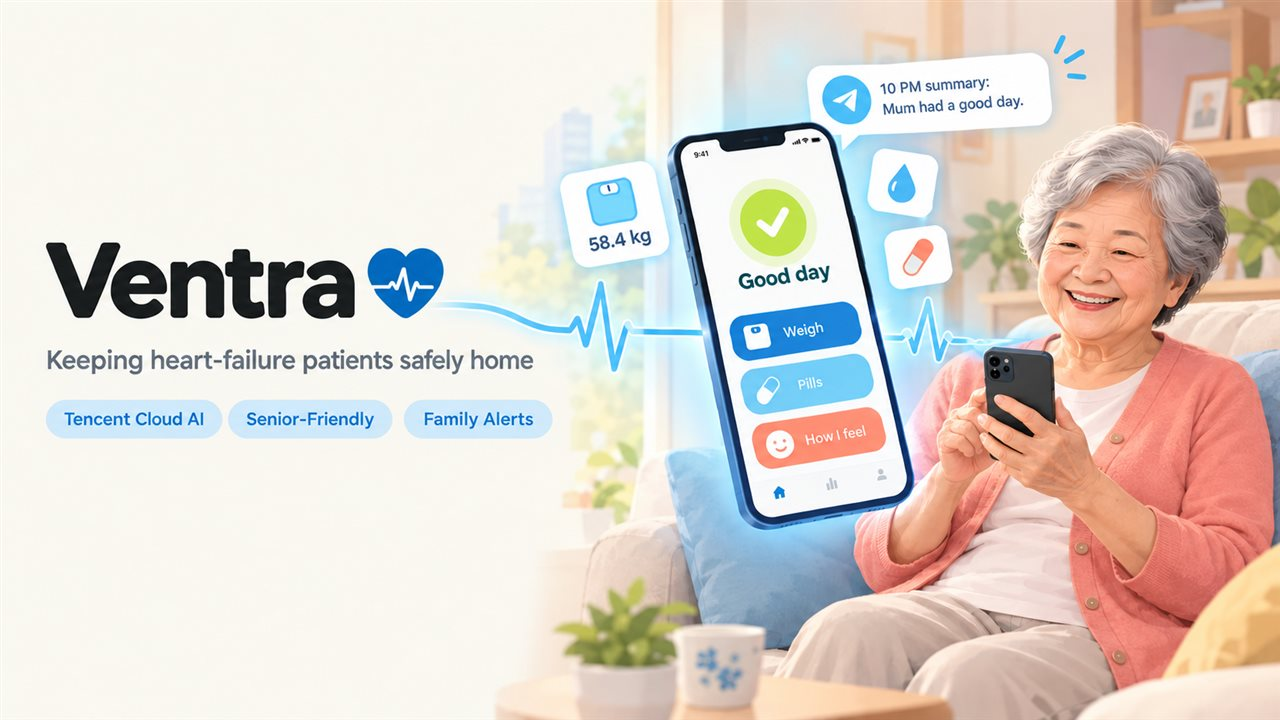
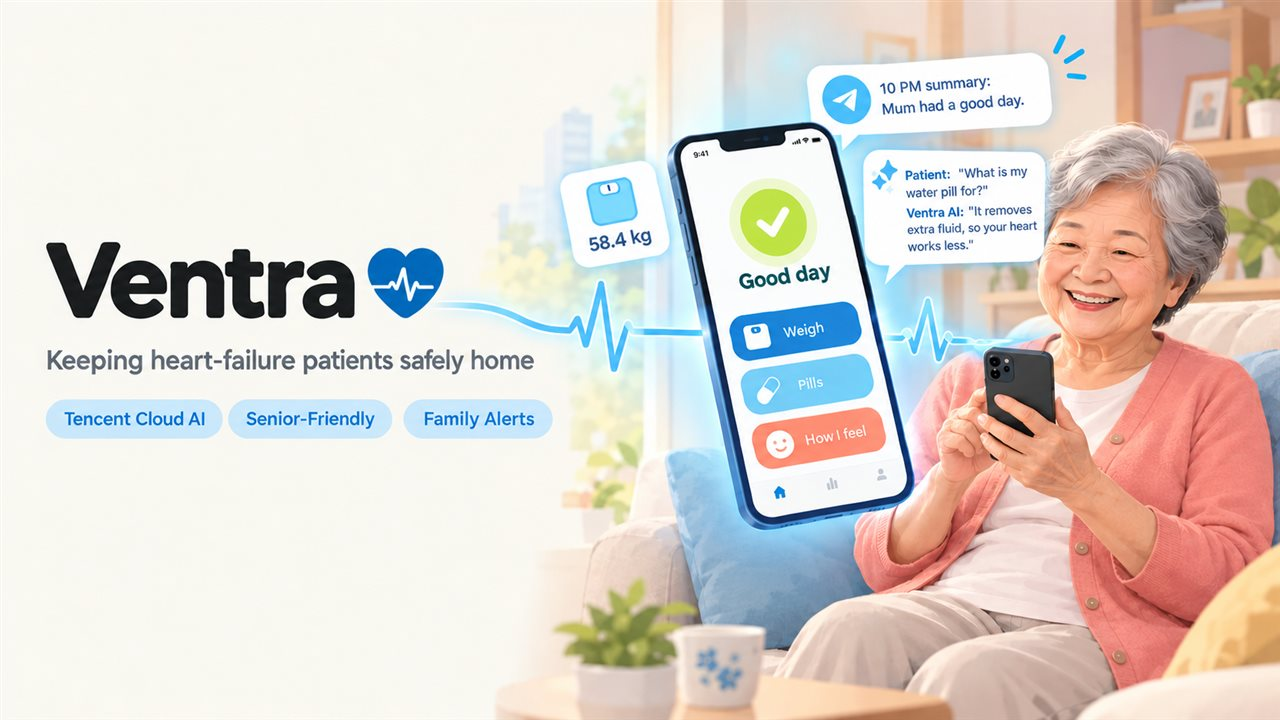
update readme

diff --git a/README.md b/README.md
@@ -1,6 +1,6 @@
 <div align="center">
 
-<img src="docs/images/cover.jpg" alt="Ventra: an older woman at home with the Ventra app showing a good day, and a 10 PM family summary on Telegram" width="100%">
+<img src="docs/images/cover.jpg" alt="Ventra: an older woman at home with the Ventra app showing a good day, an Ask AI answer, and a 10 PM family summary on Telegram" width="100%">
 
 <h1>Ventra</h1>
 
